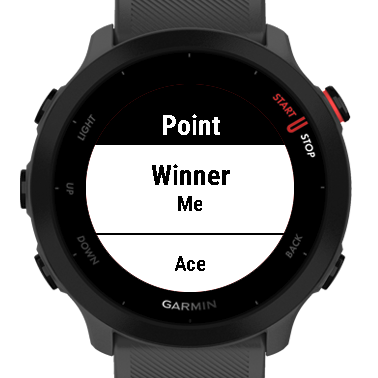
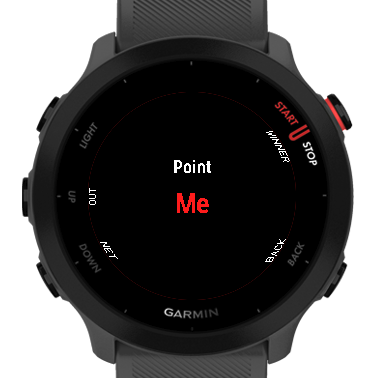
Document the key names and one press endings and retake the screenshots

diff --git a/docs/USER_GUIDE.md b/docs/USER_GUIDE.md
@@ -41,9 +41,8 @@ The controls depend on the buttons of your watch.
 | Match menu | Hold UP | Hold UP | Tap **MENU** |
 
 * **Five buttons** (for example the Forerunner 55): everything is done with
-  the buttons. On round watches two short colored marks on the edge of the
-  screen, next to UP and DOWN, remind you which button belongs to which
-  player.
+  the buttons. On round watches a small word at the edge of the screen,
+  next to each button, says what the button does.
 * **Five buttons and touch**: the buttons work the same way and a tap on the
   left or right half of the screen also scores the point.
 * **Two buttons and touch** (watches with no UP and DOWN buttons, for
@@ -109,8 +108,18 @@ of ends. Version 1 is for singles.
 * **Bottom**: the match clock and, when the watch has a reading, your heart
   rate after a red dot.
 
+* **Edge**: on a round watch that scores with the keys, a small word next
+  to each key says what it does: **ME** next to UP, **OPP** next to DOWN,
+  **FAULT** next to START and **UNDO** next to BACK. They follow the curve
+  of the screen, like the names engraved on the bezel. Touch watches show
+  the **MENU** and **FAULT** controls instead.
+
 When it is time to change ends, the watch vibrates and shows **Change
-ends**.
+ends** until the next entry.
+
+Each entry has its own short vibration, so you can log without looking: a
+point, a fault, an undo, a game, and a longer one for a set, a change of
+ends or the end of the match.
 
 ## Logging a point
 
@@ -119,19 +128,35 @@ you, DOWN or a tap on the right half for the opponent.
 
 **Simple** needs nothing else. One press and the score moves.
 
-**Detailed** asks one more question. After you say who won, a short list
-named **Point** asks how the point ended:
+**Detailed** asks one more question. After you say who won, the screen
+shows **Point** and the name of the player who won it, and one more press
+says how the point ended. BACK cancels the point and nothing is logged.
 
-* **Winner**: a ball the other player could not reach.
-* **Ace**: offered only when the player who won the point was serving.
-* **Net error**
-* **Out error**
+On a round watch that scores with the keys, each key has its ending next
+to it:
 
-Under each choice the list shows who hit that last ball, **Me** or
-**Opponent**. For example, if you won the point, **Out error** is the
-opponent's error. The list opens on **Out error**, the most common ending,
-so that case is two presses. BACK on the list cancels the point and nothing
-is logged.
+| Key | The winner of the point did not serve | The winner of the point served |
+|---|---|---|
+| UP | **OUT**: out error | **OUT**: out error |
+| DOWN | **NET**: net error | **NET**: net error |
+| START | **WINNER** | **MORE**: opens the full list |
+| BACK | **BACK**: cancel | **BACK**: cancel |
+
+The two errors are the common endings, so they are always one press. When
+the winner of the point served, an ace is possible too and there is no key
+left for it: **MORE** opens the list with **Winner**, **Ace**, **Net**
+and **Out**. Under each choice the list shows who hit that
+last ball, **Me** or **Opponent**.
+
+On a watch that scores by touch (two buttons), every ending has its own
+area to tap: **Out**, **Net**, **Winner** and, when the winner of the
+point served, **Ace**. No list is needed. BACK, as a key or as a swipe, cancels.
+
+A watch with keys and a screen that is not round (no key names at the
+edge) shows the full list at once. It opens on **Out**.
+
+An error belongs to the player who lost the point: if you won the point,
+**OUT** is the opponent's ball that landed out.
 
 You can choose the detail level only when the match starts.
 
@@ -166,8 +191,10 @@ again from the list of points, so they stay right after any correction.
 Open the match menu: hold UP, or tap **MENU** on a two button watch.
 
 * **Pause** stops the clock and the activity. The screen shows **Paused**
-  and no point can be logged or undone. To go on, press START (**FAULT** on
-  a two button watch) or choose **Resume** in the menu.
+  and the score turns amber. To go on, press UP, DOWN or START (or tap the
+  score or **FAULT**), or choose **Resume** in the menu: the watch vibrates
+  and that press only ends the pause, it logs nothing. BACK does nothing
+  during a pause.
 * **End match** stops a match before it is decided. The watch asks **End
   the match?** first.
 
@@ -197,15 +224,15 @@ survives the app closing.
 * If the app closes during a match, what was recorded so far is saved as an
   activity.
 * The next time you open the app, a menu offers **Resume** or
-  **Discard**. BACK keeps the match for later. Starting a new
-  match replaces it.
+  **Discard**. Discard asks **Discard the activity?** first. BACK keeps
+  the match for later. Starting a new match replaces it.
 * **Resume** brings back the score, the server, the sides and the
   statistics exactly. The clock goes on from the time of the last entry.
 * A resumed match is recorded as a **new** activity, so a match that was
   resumed once has two activities in Garmin Connect, each with its own
   time, steps and distance. Every further resume adds one more.
 * A first serve fault that was waiting for its second serve comes back. A
-  point whose ending you were still choosing in the list is lost.
+  point whose ending you were still choosing is lost.
 * If the watch itself restarts or runs out of battery, the activity of that
   part is most likely lost, but the stored match can still be resumed.
 * If the app closes on the final score screen before you choose, the
@@ -335,7 +362,9 @@ GPS track.
 * BACK takes back the last entry of the open block. A closed block cannot
   be changed.
 * The screen shows the block number, the two counts, the success rate of
-  the block, the clock and the heart rate.
+  the block, the clock and the heart rate. A round watch that counts with
+  the keys also names them at the edge: **HIT**, **NEXT**, **MISS** and
+  **UNDO**.
 * The menu (hold UP, or tap **MENU**) has **Pause** or **Resume** and
   **End practice**.
 * After you end it, the summary shows the total and one line for each

diff --git a/docs/TESTING.md b/docs/TESTING.md
@@ -178,9 +178,9 @@ The few hundred bytes that the script itself takes are subtracted. 1 kB is
 
 | Watch | Release build, highest | Debug build, highest |
 |---|---|---|
-| Forerunner 55 (`fr55`), measured again after the paced point log | not measured again | 107.9 kB |
-| Forerunner 245 (`fr245`) | 92.8 kB | 107.7 kB |
-| fenix 6 (`fenix6`) | 92.8 kB | 107.7 kB |
+| Forerunner 55 (`fr55`), measured again after the key names | not measured again | 107.3 kB |
+| Forerunner 245 (`fr245`), measured again after the key names | not measured again | 107.6 kB |
+| fenix 6 (`fenix6`), measured again after the key names | not measured again | 107.9 kB |
 | fenix 6S (`fenix6s`) | 92.8 kB | 107.7 kB |
 | Venu Sq (`venusq`) | 92.8 kB | 107.7 kB |
 | Venu 2 (`venu2`), a touch watch with more memory | 81.3 kB | 81.8 kB |
@@ -205,6 +205,17 @@ after 300 entries 106.2 kB, save menu 107.9 kB. To stay under the bar,
 the format rules, the empty point log field and the report tables were
 packed tighter, which gave back about 0.4 kB. The other rows of the table
 and the steps listed above are from the first measurement.
+
+The key names at the edge of the match, ending and practice screens came
+later. On the watches that cannot turn text they are four small images,
+loaded by the screen that shows them and let go when it closes. The three
+watches with the least memory that use images were measured again at the
+paced rhythm, in the debug build. Forerunner 55: match screen after 300
+entries 106.7 kB, screen of how the point ended 107.3 kB, save menu
+107.3 kB. Forerunner 245: 107.0 kB, 107.6 kB and 107.2 kB. fenix 6, whose
+images are the largest: 107.1 kB, 107.7 kB and 107.3 kB, with 107.9 kB right
+after the ending is chosen. The fenix 6S, the Venu Sq and the first Venu 2
+row were not measured again.
 
 The readings are taken between the steps, so memory that a screen takes
 and gives back while it draws is not in them, and nothing was measured on

diff --git a/CHANGELOG.md b/CHANGELOG.md
@@ -6,8 +6,33 @@ and the project adheres to [Semantic Versioning](https://semver.org/).
 
 ## [Unreleased]
 
+### Added
+
+* Key names at the edge of the screen. On a round watch that scores with
+  the keys, a small word next to each key says what it does on the match
+  screen (ME, FAULT, OPP, UNDO), on the practice screen (HIT, NEXT, MISS,
+  UNDO) and when the app asks how a point ended. They follow the curve of
+  the screen: watches with scalable fonts draw the text along the arc, the
+  18 older watches without them load small images made by
+  `tools/key_labels.py` (`make key-labels`), one set per screen size and
+  language. The inner content of those screens is 12 percent smaller so
+  the names have clear room.
+* Detailed mode: one press says how the point ended. UP is the out error,
+  DOWN the net error, START the winner, BACK cancels. When the winner of
+  the point served, START reads MORE and opens the full list, which also
+  holds the ace. Touch watches get one tap area per ending. The codes in
+  the point log are unchanged.
+* A distinct short vibration for a point, a fault, an undo, a game, and a
+  set, change of ends or end of match.
+
 ### Changed
 
+* A press on a score key or on the fault key during a pause ends the
+  pause, with a vibration, and logs nothing. The score turns amber while
+  the match is paused.
+* The change of ends notice stays until the next entry.
+* Discard on the offer to resume a stored match asks for confirmation.
+* The Settings entry of the menu, which opened nothing, is gone.
 * The bottom row of the match screen sits three percent of the height
   higher on a round screen with no touch controls, and its parts stand
   closer together on every watch. On the

diff --git a/README.md b/README.md
@@ -42,8 +42,11 @@ yet: no version tag, no GitHub release and no store entry exist.
   is on.
 * 🔄 **Change of ends**: a vibration and a notice when it is time.
 * 📝 **Point by point log**: one press for who won the point (simple) or a
-  second press for how it ended (detailed): winner, ace, error in the net
-  or error out. Serve faults and double faults take one button.
+  second press for how it ended (detailed): out and net sit on their own
+  keys, winner and ace one press away. Serve faults and double faults take
+  one button.
+* 🔘 **Key names at the edge**: a small word next to each key says what it
+  does, on the match, ending and practice screens.
 * ↩ **Undo and fix**: take back the last entry, or correct the score from
   the menu.
 * ⏯ **Pause, end and resume**: a match interrupted when the app closes can
@@ -95,10 +98,12 @@ Project layout:
 * `source/`: the app (entry point, `model/`, `engine/`, `match/`,
   `recording/`, `ui/`, `i18n/`, generated string table and `tests/`)
 * `resources*/`: launcher icon and the strings of the six languages
+* `keylabels/`: the images of the key names for the watches that cannot
+  turn text, made by `make key-labels` from the strings
 * `scripts/`: string table and icon generators, resources check and device
   API audit
-* `tools/`: function length checker, the `tennis_export` converter and
-  their tests
+* `tools/`: function length checker, key name image generator, the
+  `tennis_export` converter and their tests
 * `docs/`: [plan](docs/PLAN.md), [user guide](docs/USER_GUIDE.md),
   [store listing](docs/STORE_LISTING.md), [quality bar](docs/QUALITY.md),
   [testing strategy](docs/TESTING.md), [recording](docs/RECORDING.md) and

diff --git a/docs/STORE_LISTING.md b/docs/STORE_LISTING.md
@@ -470,7 +470,8 @@ alone. Upload them in this order, so the preview tells the whole story:
    on top, large game points, serve ball, mini court and clock.
 2. `break-point.png`: match screen with the BREAK POINT label.
 3. `setup.png`: match setup, on the Format row.
-4. `ending.png`: detailed mode, the list that asks how the point ended.
+4. `ending.png`: detailed mode, the screen that asks how the point ended,
+   with one ending next to each key.
 5. `final.png`: final score with You won, the sets and the time played.
 6. `report.png`: the SERVE page of the statistics.
 7. `practice.png`: practice mode with a block in progress.

diff --git a/CONTRIBUTING.md b/CONTRIBUTING.md
@@ -51,7 +51,10 @@ fixing the developer experience is a contribution too.
    `resources-<code>/strings/strings.xml` (por, spa, fre, deu, ita).
 2. Run `make strings` to regenerate `source/generated/Strings.mc` and the
    tables in `resources/texts/`.
-3. `make resources-check` confirms that nothing is missing or stale.
+3. After a change to a key name (the short words at the edge of the match,
+   ending and practice screens), run `make key-labels` to draw their images
+   in `keylabels/` again.
+4. `make resources-check` confirms that nothing is missing or stale.
 
 ## Adding a new language
 
